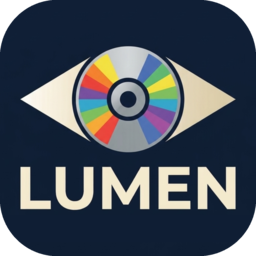
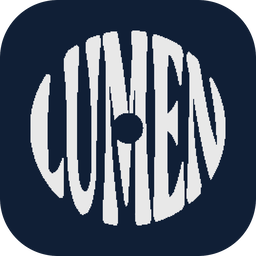
Receiver page: the new round LUMEN emblem; the intro shows DISC · CINEMA PLAYER below it

diff --git a/receiver/receiver.css b/receiver/receiver.css
@@ -27,8 +27,8 @@ img { border: 0; }
 #grain { position: absolute; left: 0; top: 0; right: 0; bottom: 0; background: url(grain.png); opacity: 0.55; }
 
 #head { position: absolute; left: 96px; right: 96px; top: 66px; height: 56px; }
-#emblem { position: absolute; left: 0; top: 6px; height: 44px; }
-#brand { position: absolute; left: 104px; top: 4px; font-size: 28px; line-height: 48px; font-weight: 700; letter-spacing: 8px; }
+#emblem { position: absolute; left: 0; top: 4px; height: 48px; width: 48px; }
+#brand { position: absolute; left: 66px; top: 4px; font-size: 28px; line-height: 48px; font-weight: 700; letter-spacing: 8px; }
 #chips { position: absolute; right: 0; top: 4px; white-space: nowrap; }
 .chip { display: inline-block; margin-left: 16px; height: 46px; line-height: 46px; padding: 0 20px; border-radius: 23px;
   background: rgba(255,255,255,0.06); font-size: 22px; color: #9299a8; }
@@ -140,13 +140,13 @@ img { border: 0; }
 #intro { position: absolute; left: 0; top: 0; right: 0; bottom: 0; background: -webkit-linear-gradient(top, #0d1017, #07080b); background: linear-gradient(to bottom, #0d1017, #07080b); }
 #intro.gone { opacity: 0; visibility: hidden; -webkit-transition: opacity 560ms ease-in-out, visibility 0s 560ms; transition: opacity 560ms ease-in-out, visibility 0s 560ms; }
 #introBox { position: absolute; left: 0; right: 0; top: 50%; margin-top: -128px; text-align: center; }
-#introEmblem { height: 170px; opacity: 0; -webkit-animation: emblemIn 900ms cubic-bezier(0.25, 1, 0.5, 1) 120ms both; animation: emblemIn 900ms cubic-bezier(0.25, 1, 0.5, 1) 120ms both; }
+#introEmblem { height: 210px; width: 210px; opacity: 0; -webkit-animation: emblemIn 900ms cubic-bezier(0.25, 1, 0.5, 1) 120ms both; animation: emblemIn 900ms cubic-bezier(0.25, 1, 0.5, 1) 120ms both; }
 #intro.gone #introEmblem { -webkit-transition: -webkit-transform 560ms ease-in; transition: transform 560ms ease-in; -webkit-transform: scale(1.12); transform: scale(1.12); }
-#introWord { margin-top: 34px; font-size: 44px; font-weight: 700; padding-left: 22px; opacity: 0; -webkit-animation: wordIn 900ms cubic-bezier(0.25, 1, 0.5, 1) 440ms both; animation: wordIn 900ms cubic-bezier(0.25, 1, 0.5, 1) 440ms both; }
+#introWord { margin-top: 30px; font-size: 22px; font-weight: 600; padding-left: 5px; opacity: 0; -webkit-animation: wordIn 900ms cubic-bezier(0.25, 1, 0.5, 1) 440ms both; animation: wordIn 900ms cubic-bezier(0.25, 1, 0.5, 1) 440ms both; }
 @-webkit-keyframes emblemIn { from { opacity: 0; -webkit-transform: scale(0.9); } to { opacity: 1; -webkit-transform: none; } }
 @keyframes emblemIn { from { opacity: 0; transform: scale(0.9); } to { opacity: 1; transform: none; } }
-@-webkit-keyframes wordIn { from { opacity: 0; letter-spacing: 34px; } to { opacity: 1; letter-spacing: 22px; } }
-@keyframes wordIn { from { opacity: 0; letter-spacing: 34px; } to { opacity: 1; letter-spacing: 22px; } }
+@-webkit-keyframes wordIn { from { opacity: 0; letter-spacing: 9px; } to { opacity: 1; letter-spacing: 5px; } }
+@keyframes wordIn { from { opacity: 0; letter-spacing: 9px; } to { opacity: 1; letter-spacing: 5px; } }
 
 /* a platform with its own player behind the page (Android TV): the page is see-through while a film runs */
 html.native.playing, html.native.playing body { background: transparent; }

diff --git a/receiver/index.html b/receiver/index.html
@@ -31,7 +31,7 @@
   </div>
   <div id="toast"></div>
   <div id="saver"><div id="saverBox"><div id="saverClock"></div><div id="saverDate"></div></div></div>
-  <div id="intro"><div id="introBox"><img id="introEmblem" src="emblem.png" alt=""><div id="introWord">LUMEN</div></div></div>
+  <div id="intro"><div id="introBox"><img id="introEmblem" src="emblem.png" alt=""><div id="introWord">DISC &middot; CINEMA PLAYER</div></div></div>
 </div>
 
 <!-- A packaged TV app puts its platform file next to this page (see Lumen-TV); in a browser it is absent -->
